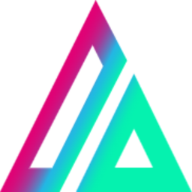
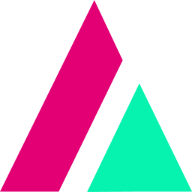
caught back up

diff --git a/components/header.tsx b/components/header.tsx
@@ -1,6 +1,6 @@
 "use client"
 
-import { useState } from "react"
+import { useState, type ComponentType, type SVGProps } from "react"
 import Link from "next/link"
 import dynamic from "next/dynamic"
 import { X, Menu, Folder, Settings, FileText, Mail, Shield } from "lucide-react"
@@ -10,16 +10,22 @@ const ThemeToggle = dynamic(() => import("@/components/theme-toggle"), {
   ssr: false,
 })
 
+type NavLink = {
+  label: string
+  href: string
+  Icon: ComponentType<SVGProps<SVGSVGElement>>
+}
+
 export default function Header() {
   const [mobileMenuOpen, setMobileMenuOpen] = useState(false)
-  const toggleMobileMenu = () => setMobileMenuOpen(o => !o)
+  const toggleMobileMenu = () => setMobileMenuOpen((o) => !o)
 
-  const links = [
+  const links: NavLink[] = [
     { label: "Projects", href: "/projects", Icon: Folder },
     { label: "Services", href: "/services", Icon: Settings },
-    { label: "Blog",     href: "/blog",     Icon: FileText },
-    { label: "Contact",  href: "/contact",  Icon: Mail },
-    { label: "Privacy",  href: "/privacy",  Icon: Shield },
+    { label: "Blog", href: "/blog", Icon: FileText },
+    { label: "Contact", href: "/contact", Icon: Mail },
+    { label: "Privacy", href: "/privacy", Icon: Shield },
   ]
 
   return (
@@ -27,63 +33,29 @@ export default function Header() {
       <div className="container mx-auto flex h-16 items-center justify-between px-4">
         {/* Brand */}
         <div className="flex items-center gap-2">
-          {/* LOGO */}
-          <svg
-            id="Layer_2"
-            xmlns="http://www.w3.org/2000/svg"
-            xmlnsXlink="http://www.w3.org/1999/xlink"
-            viewBox="0 0 1613.39 1330.98"
-            className="h-6 w-auto"
-          >
-            <defs>
-              <linearGradient
-                id="linear-gradient"
-                x1="392.57" y1="659.38"
-                x2="772.1"  y2="896.53"
-                gradientUnits="userSpaceOnUse"
-              >
-                <stop offset="0"    stopColor="#e20074" />
-                <stop offset=".11"  stopColor="#de0376" />
-                <stop offset=".21"  stopColor="#d30e7c" />
-                <stop offset=".31"  stopColor="#c02087" />
-                <stop offset=".41"  stopColor="#a53997" />
-                <stop offset=".5"   stopColor="#835aab" />
-                <stop offset=".6"   stopColor="#5982c4" />
-                <stop offset=".69"  stopColor="#29b0e0" />
-                <stop offset=".7"   stopColor="#24b6e4" />
-                <stop offset=".78"  stopColor="#1ec0db" />
-                <stop offset=".91"  stopColor="#10dbc3" />
-                <stop offset="1"    stopColor="#05f2af" />
-              </linearGradient>
-              <linearGradient
-                id="linear-gradient-2"
-                x1="1608.17" y1="1340.03"
-                x2="876.99"  y2="917.88"
-                gradientUnits="userSpaceOnUse"
-              >
-                <stop offset=".82" stopColor="#05f2af" />
-                <stop offset=".87" stopColor="#06eeb2" />
-                <stop offset=".91" stopColor="#0ce3bb" />
-                <stop offset=".96" stopColor="#15d1cc" />
-                <stop offset="1"    stopColor="#23b7e2" />
-                <stop offset="1"    stopColor="#24b6e4" />
-              </linearGradient>
-            </defs>
-            <g id="logoMainLayer">
-              <path
-                d="M804.6,0L0,1330.92h500.66l568.5-911.2L804.6,0ZM438.29,1164.13l-188.85,1.13L779.17,312.37l87.71,146.71-428.59,705.05Z"
-                fill="url(#linear-gradient)"
-              />
-              <path
-                id="triCompound"
-                d="M1125.94,510.82l-487.45,820.16h974.91l-487.45-820.16ZM1125.94,892.74l160.19,269.52h-320.37l160.19-269.52Z"
-                fill="url(#linear-gradient-2)"
-              />
-            </g>
-          </svg>
-          <span className="font-geist text-xl md:text-2xl font-bold text-black dark:text-white">
-            theProject<span className="text-magenta">.</span>
-          </span>
+          {/* LOGO with Link */}
+          <Link href="/" className="flex items-center gap-2">
+            <svg
+              id="Layer_2"
+              xmlns="http://www.w3.org/2000/svg"
+              viewBox="0 0 1638.16 1333.13"
+              className="h-6 w-auto"
+            >
+              <g id="logoMainLayer">
+                <polygon
+                  points="804.62 0 0 1330.9 500.66 1330.91 1046.54 418.11 804.62 0"
+                  fill="#e20074"
+                />
+                <polygon
+                  points="1188.87 579.3 743.47 1333.13 1638.16 1330.82 1188.87 579.3"
+                  fill="#05f2af"
+                />
+              </g>
+            </svg>
+            <span className="font-geist text-xl md:text-2xl font-bold text-black dark:text-white">
+              theProject<span className="text-magenta">.</span>
+            </span>
+          </Link>
         </div>
 
         {/* Desktop nav */}
@@ -132,16 +104,16 @@ export default function Header() {
           ${mobileMenuOpen ? "translate-x-0" : "translate-x-full"}
         `}
       >
-        <nav className="flex flex-col items-end justify-start h-full pt-8 pr-1 bg-white/80 backdrop-blur-xs dark:bg-black/80">
+        <nav className="flex flex-col items-start h-full pt-8 bg-white/80 backdrop-blur-xs dark:bg-black/80">
           {links.map(({ label, href, Icon }) => (
             <Link
               key={href}
               href={href}
-              className="group flex w-full justify-left items-center gap-2 px-4 py-4 transition-colors hover:text-magenta dark:hover:text-magenta bg-white/80 backdrop-blur-xs dark:bg-black/80"
+              className="flex w-full items-center gap-2 px-4 py-3 transition-colors hover:text-magenta dark:hover:text-magenta"
               onClick={() => setMobileMenuOpen(false)}
             >
-              <Icon className="h-5 w-5 flex-shrink-0" />
-              {label}
+              <Icon className="h-5 w-5 shrink-0" />
+              <span className="text-sm">{label}</span>
             </Link>
           ))}
         </nav>
